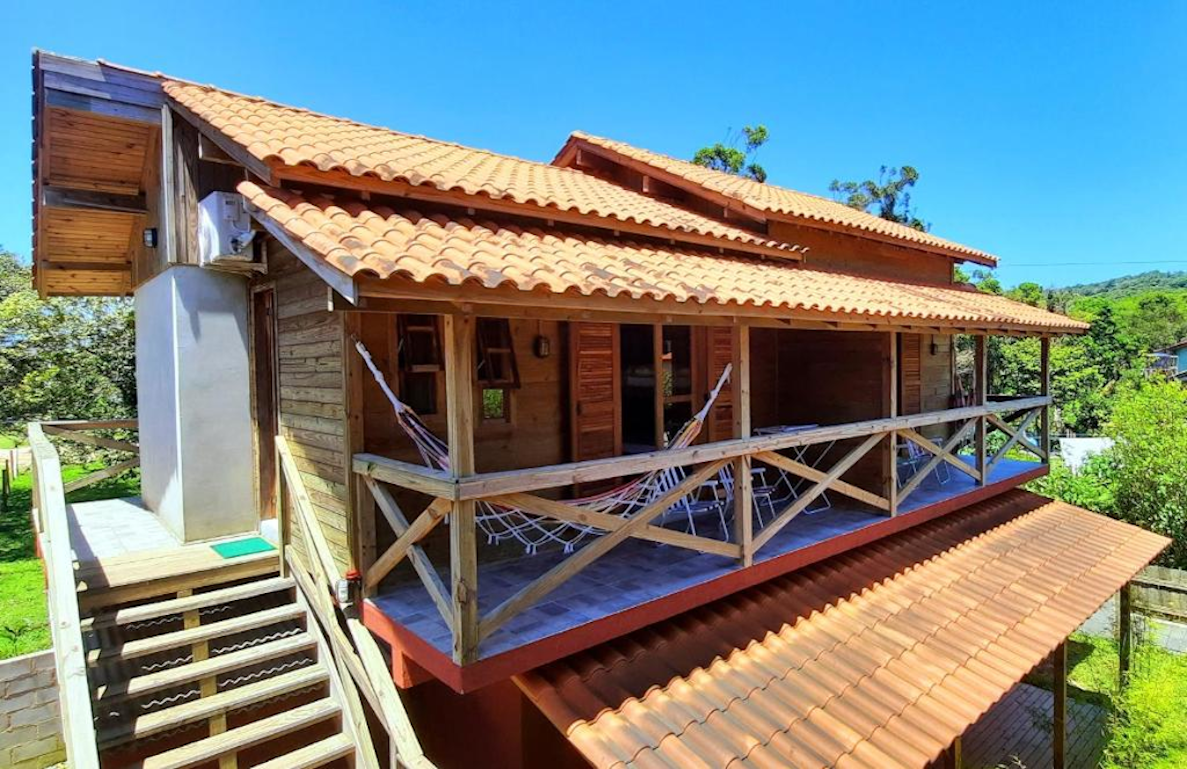
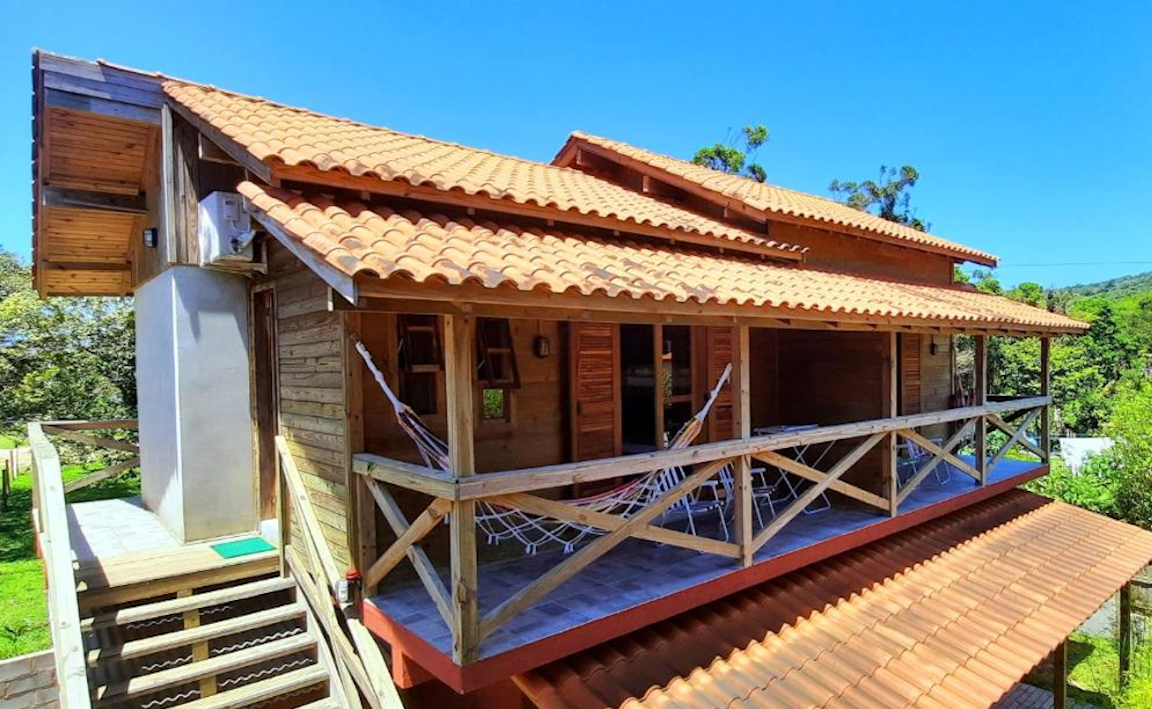
fotos e cards cabana

diff --git a/index.html b/index.html
@@ -195,7 +195,7 @@
                     <div class="col-lg-4 col-md-6 wow fadeInUp" data-wow-delay="0.5s">
                         <div class="team-item text-center rounded overflow">
                             <div class="rounded-circle overflow-hidden m-4">
-                                <img class="img-fluid" src="img/chale3/foto1.png" alt="">
+                                <img class="img-fluid" src="img/chale3/foto4.png" alt="">
                             </div>
                             <h5 class="mb-0">Cabana 3</h5>
                             <small></small>
